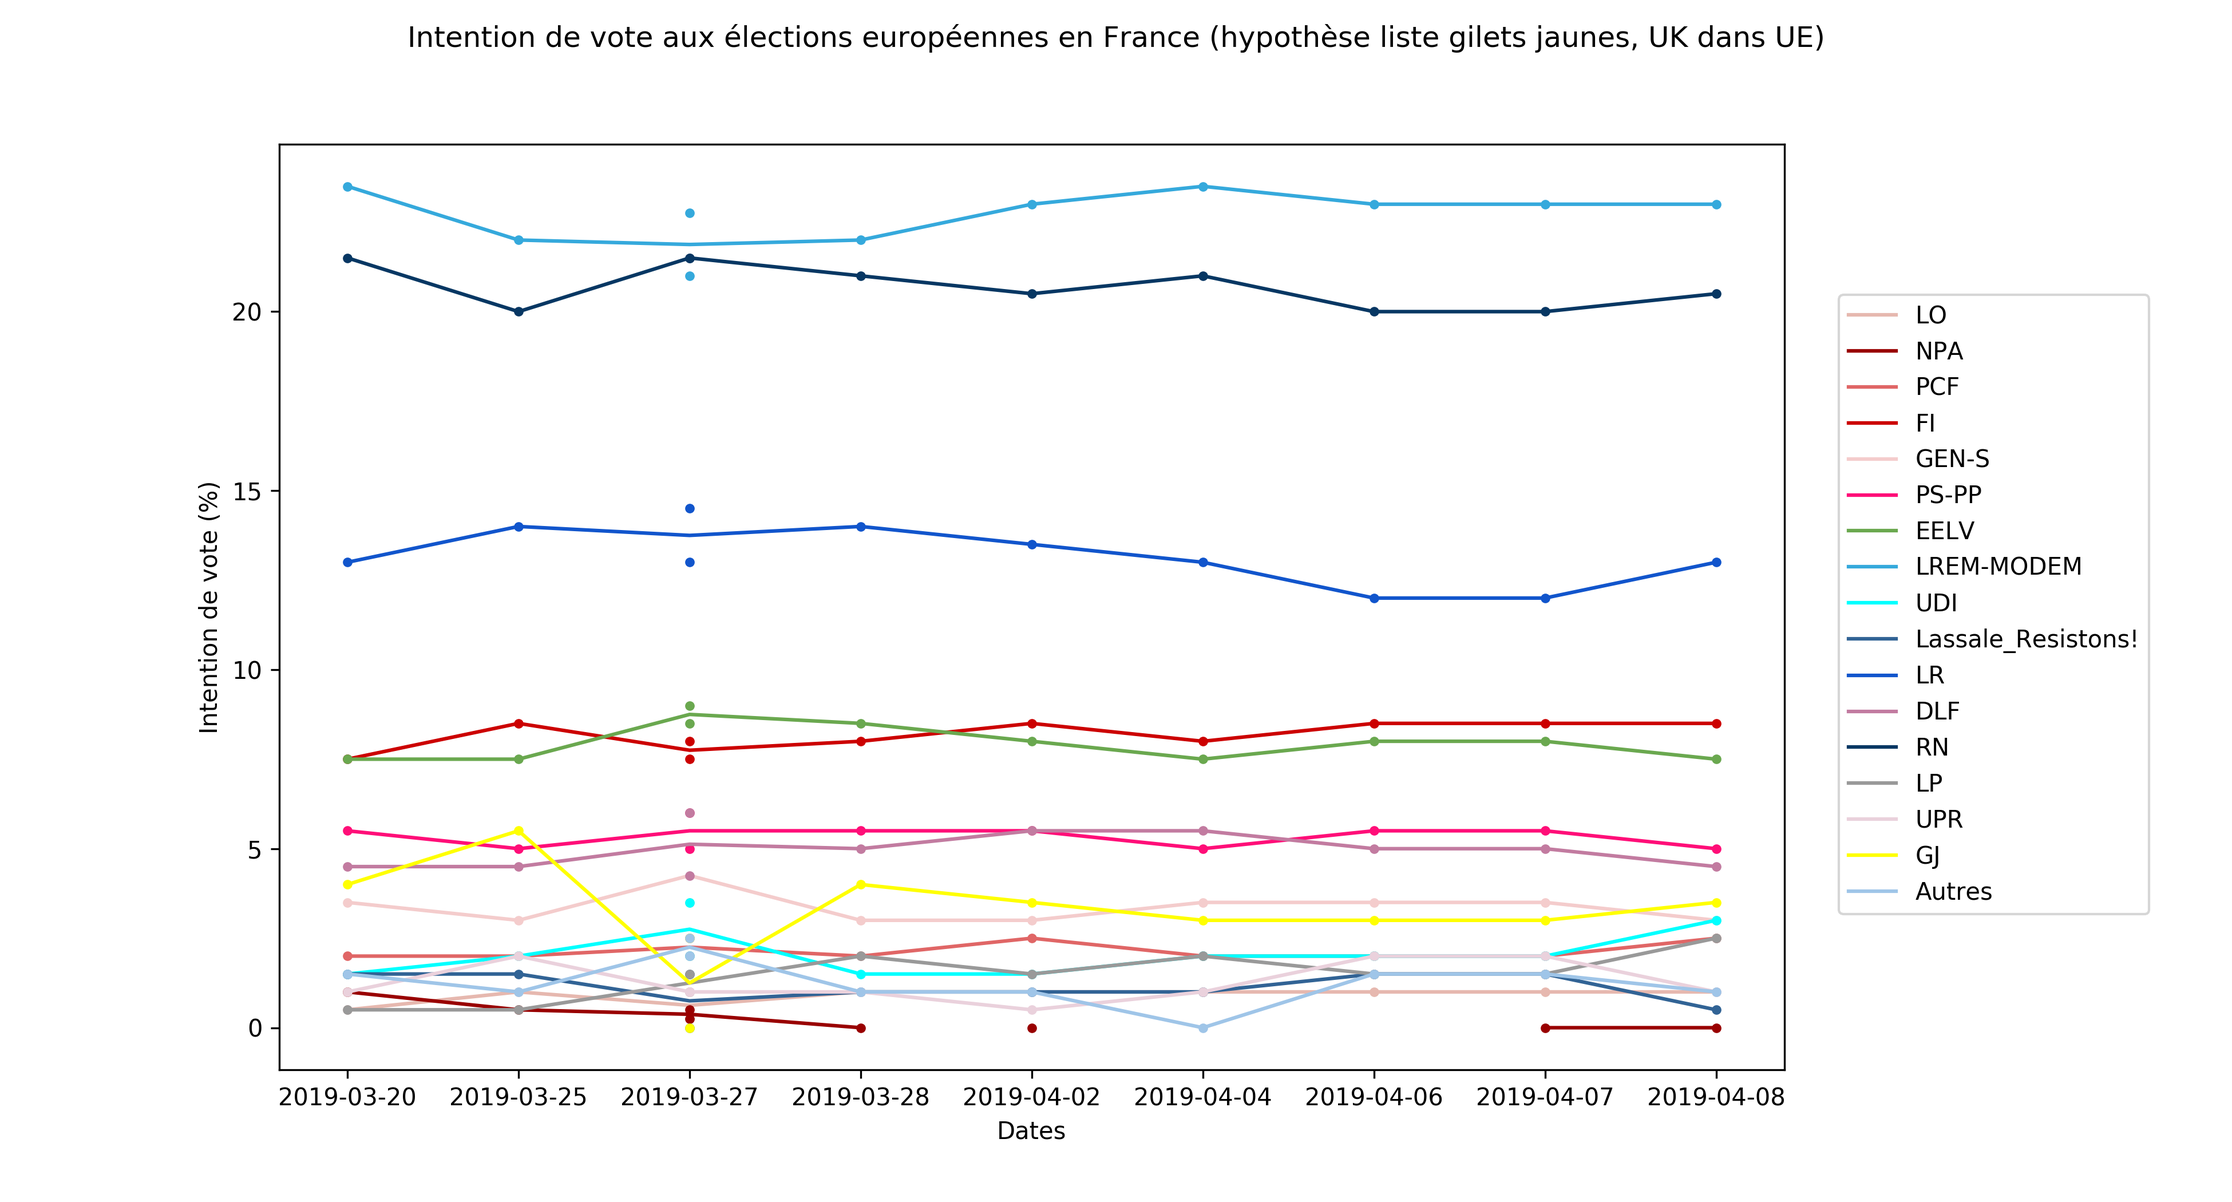
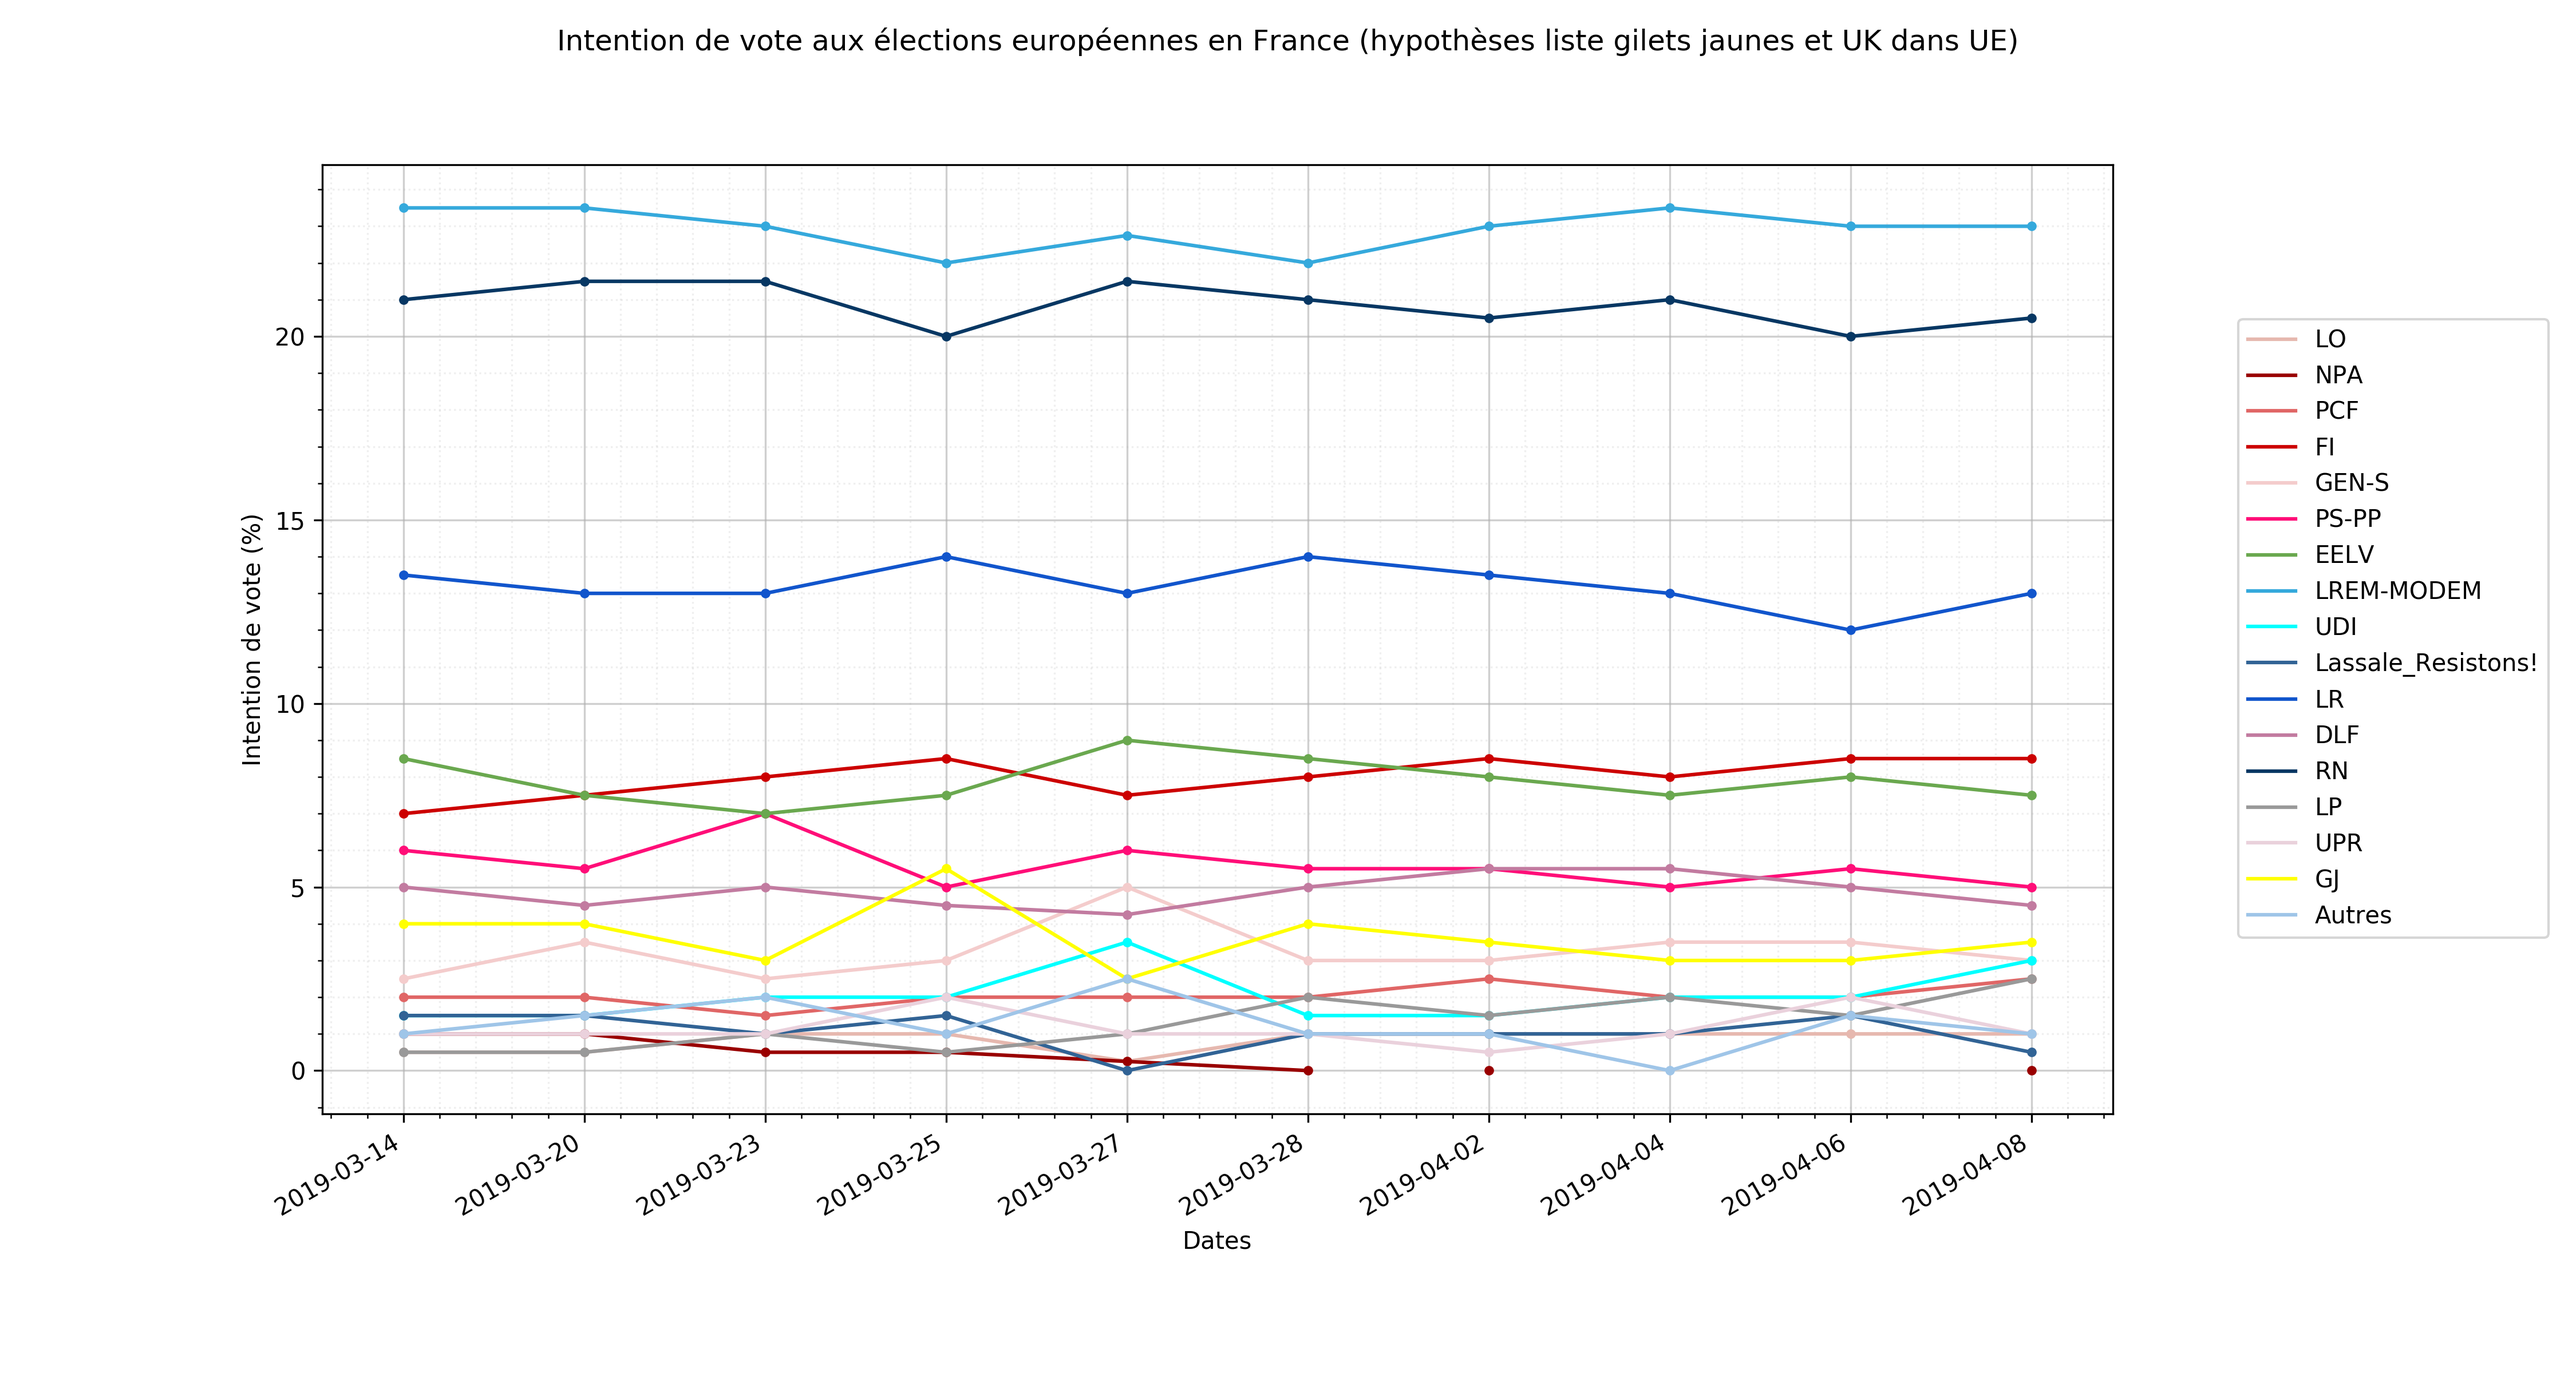
Chart updated, more data
- grid
- taille
- ajout de deux sondages

diff --git a/source.py b/source.py
@@ -46,10 +46,10 @@ donnees = [donnees[i].astype(float) for i in range(0, len(donnees))]
 # Plot sondages
 ##########
 def plot_sondages(dates, donnees, colors, export):
-    grid = plt.GridSpec(4, 8, wspace=0.4, hspace=0.3)
+    grid = plt.GridSpec(10, 10, wspace=0.4, hspace=0.3)
 
-    fig = plt.figure(figsize=(13,7))
-    ax = fig.add_subplot(grid[:,:7])
+    fig = plt.figure(figsize=(15,8))
+    ax = fig.add_subplot(grid[:9,:9])
     fig.suptitle('Intention de vote aux élections européennes en France (hypothèses liste gilets jaunes et UK dans UE)')
     plt.xlabel('Dates')
     plt.ylabel('Intention de vote (%)')
@@ -60,11 +60,13 @@ def plot_sondages(dates, donnees, colors, export):
         x,y = zip(*sorted((xVal, np.mean([yVal for a, yVal in zip(dates_timestamp, d) if xVal==a])) for xVal in set(dates_timestamp)))
         interp = scipy.interpolate.interp1d(x, y)
 
-        ax.plot(dates, d, '.',color=colors[i]) #plot points
+        ax.plot(dates, d, '.', color=colors[i]) #plot points
         ax.plot(dates, [interp(x) for x in dates_timestamp], color=colors[i], label=partis[i]) #plot interpolation
         ax.legend(bbox_to_anchor=(0.75, 0.35, 0.5, 0.5))
-
-        #plt.plot()
+    plt.xticks(dates, dates, rotation=30, horizontalalignment='right')
+    ax.grid(True, which='major', linestyle='-', alpha=0.6)
+    plt.minorticks_on()
+    ax.grid(True, which='minor', linestyle=':', alpha=0.2)
 
     if export == True:
         fig.savefig('export/sondages/'+max(dates), dpi=300)
